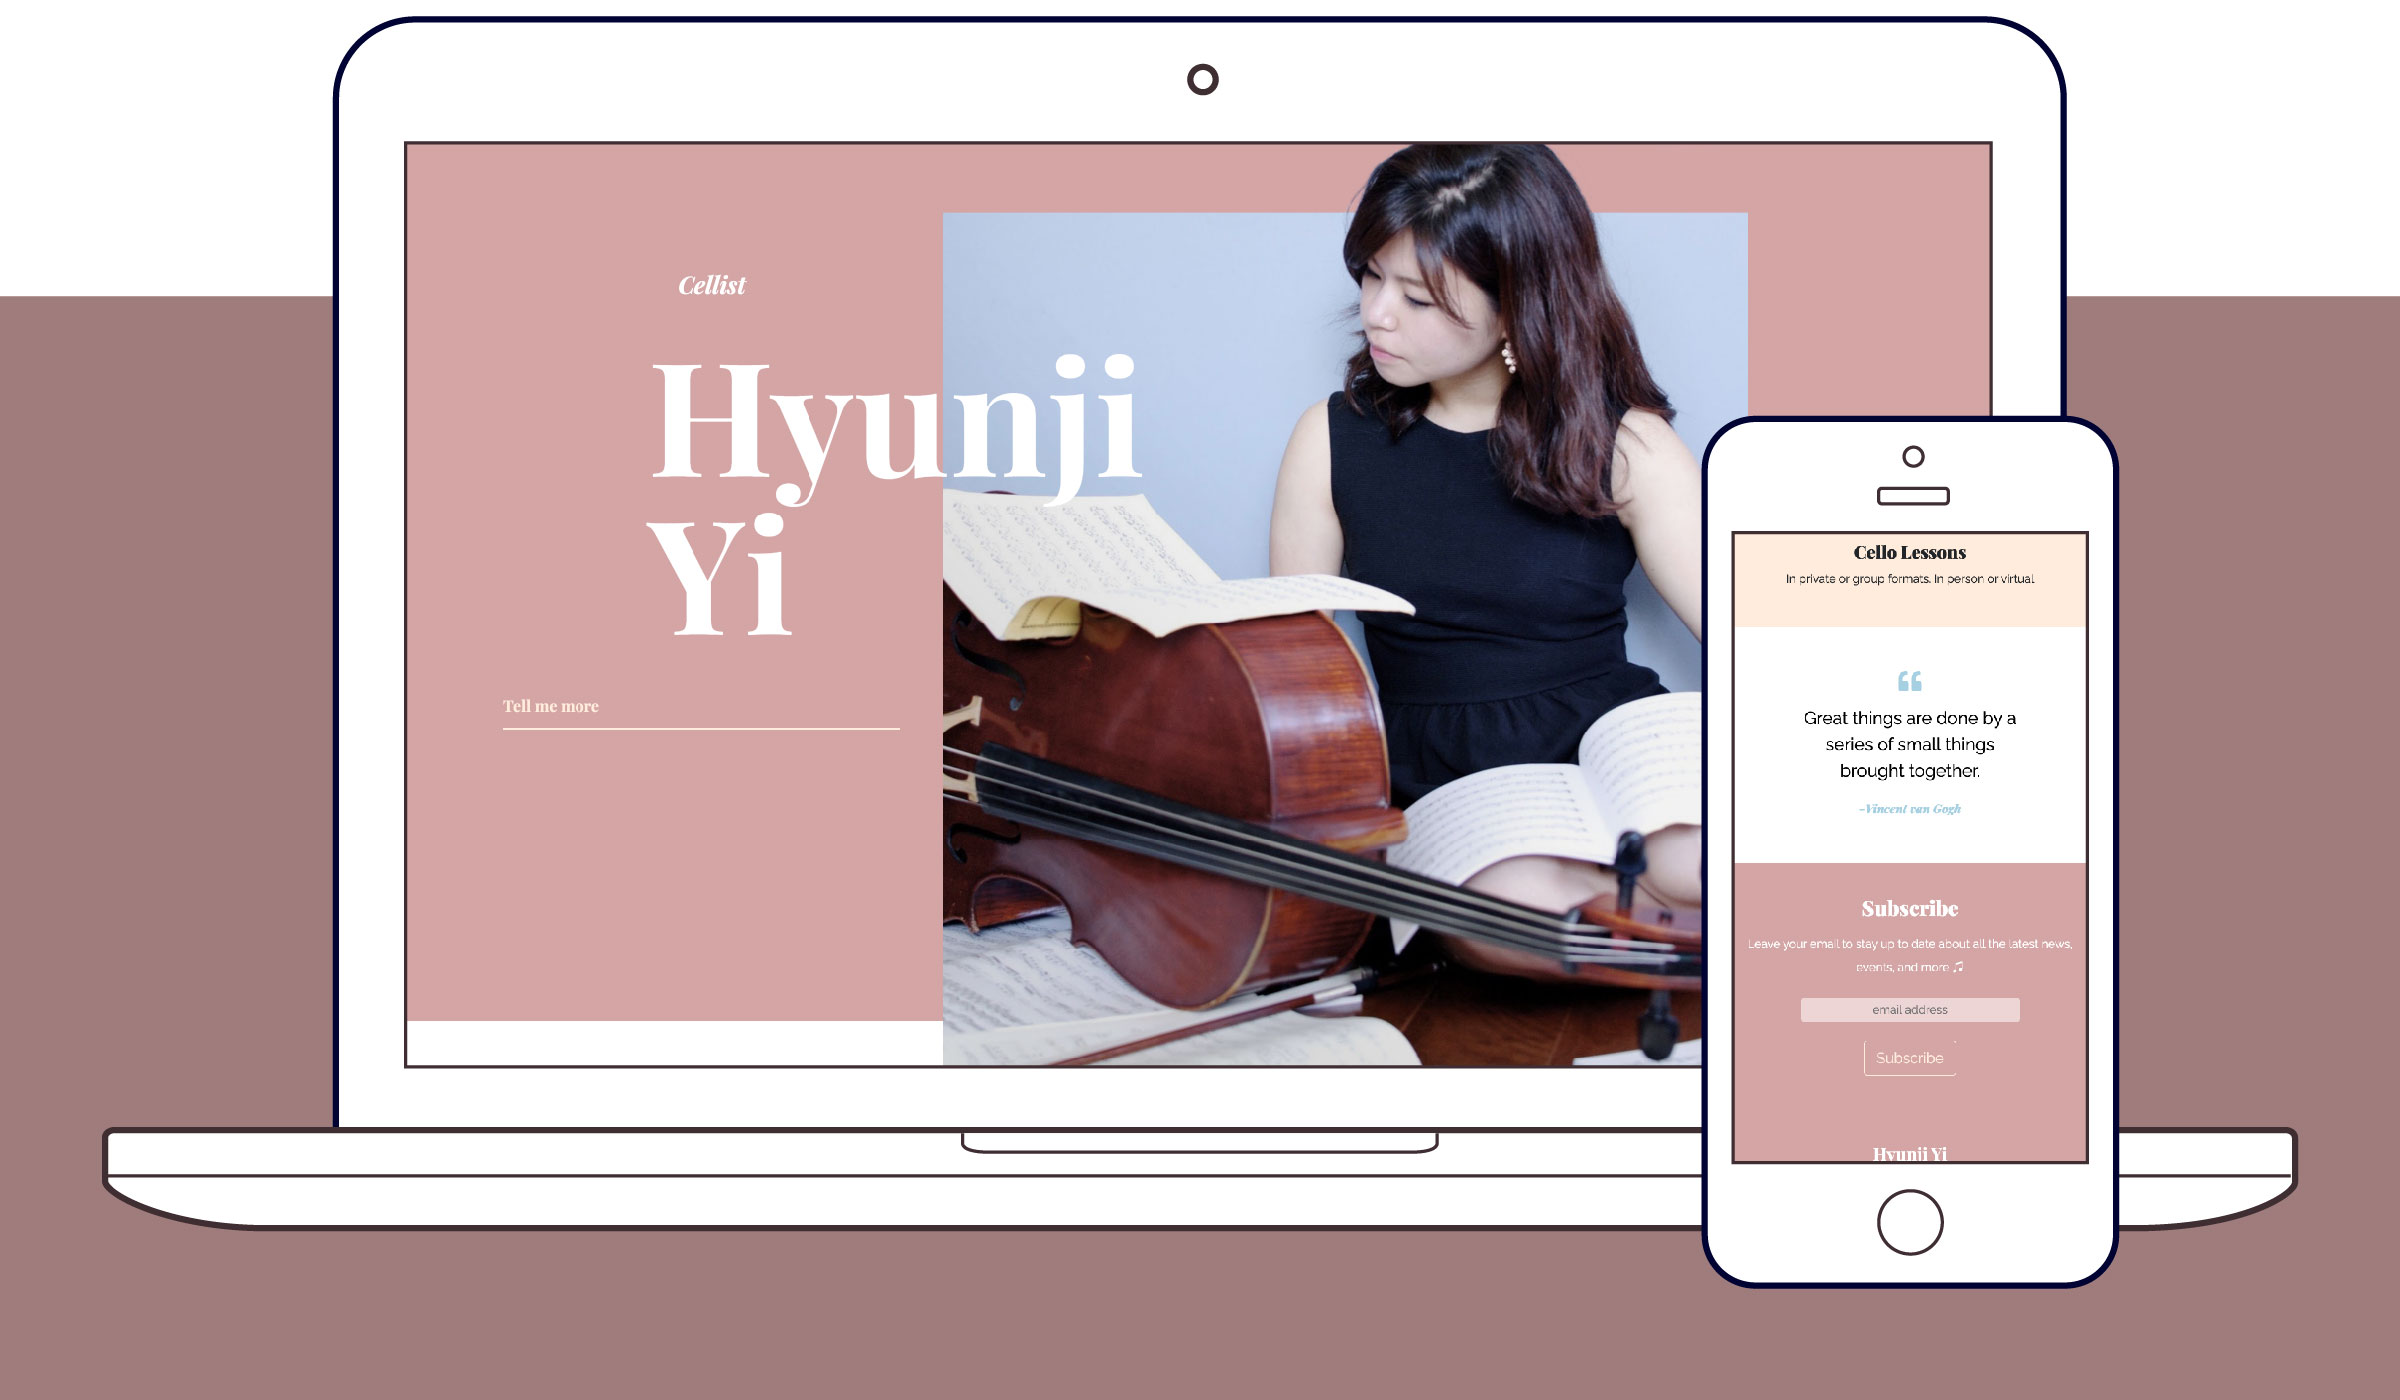
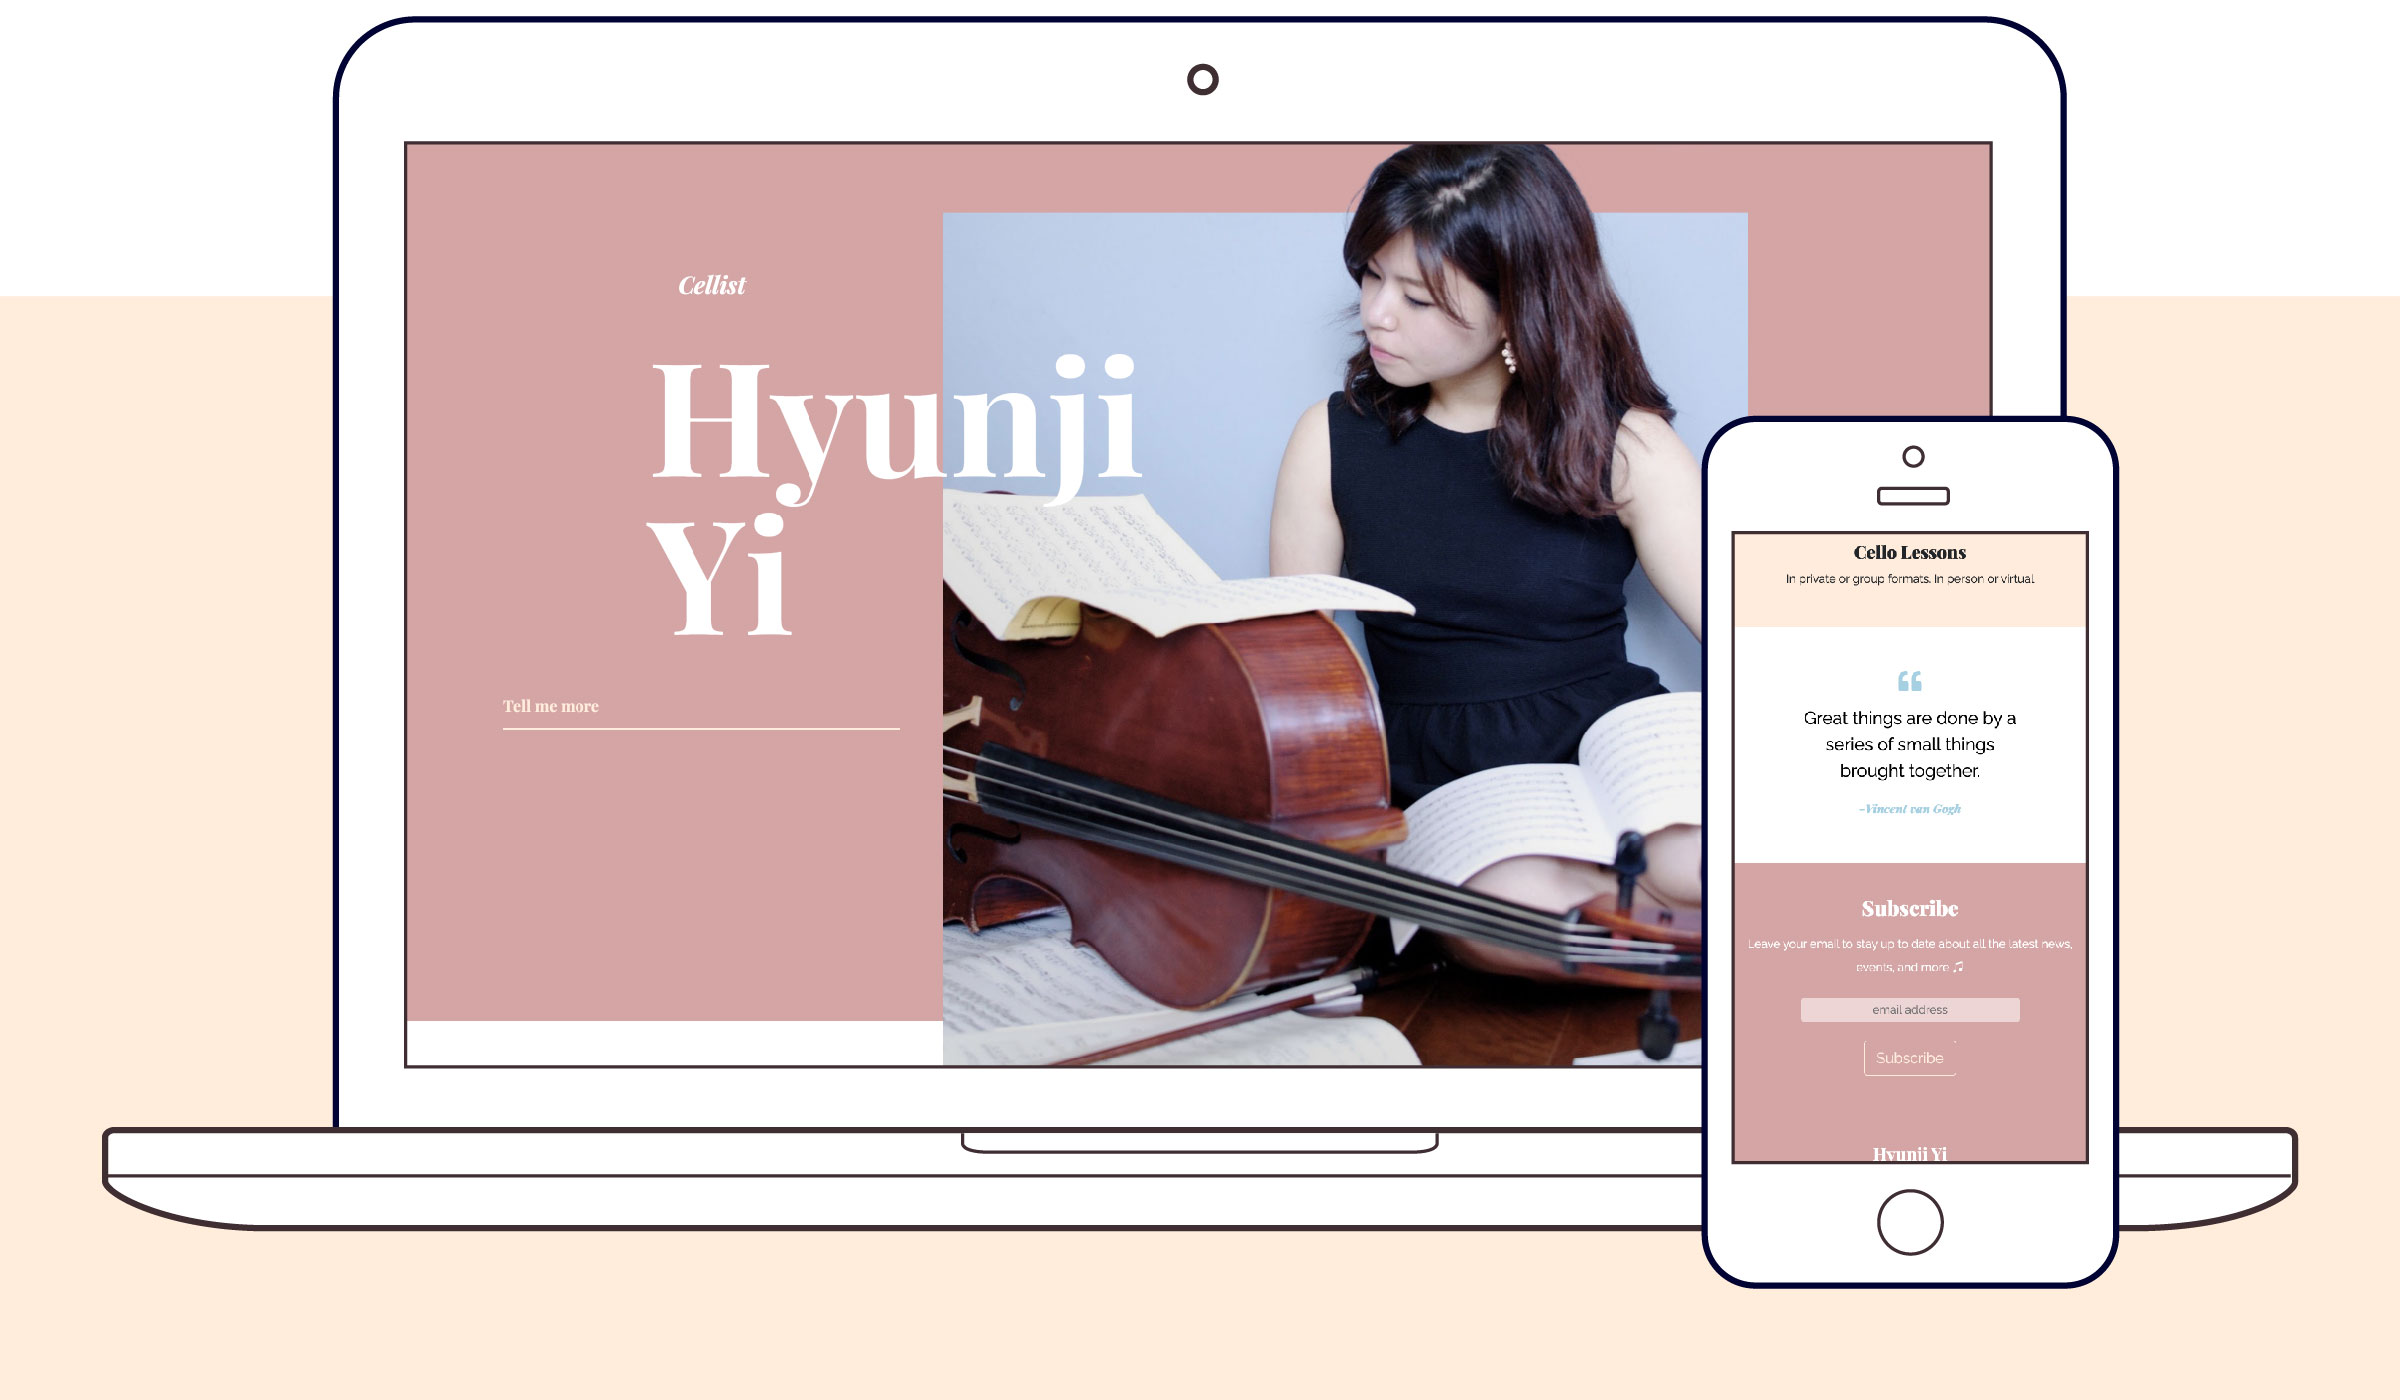
Updated project backgrounds and footer to top link

Changed region(s): [[0.0, 0.1843, 1.0, 1.0]]

diff --git a/tommylee/projects-data.php b/tommylee/projects-data.php
@@ -11,15 +11,6 @@
 			"img1" => "images/thovon-02.jpg",
 			"img2" => "images/thovon-03.jpg",
 		],[
-			"key" => "fortia",
-			"title" => "Fortia Homme",
-			"intro" => "Ecommerce store built with Shopify. Fortia targets the young male audience to offer fresh and trendy jewelry. An elegant low key green and gray were chosen to denote masculinity.",
-			"par1" => "The collection images features elements from nature, metaphorically connecting the strength of nature to each collection's items. For the landing section, since the goal was to communicate as many ongoing promotions as possible, I chose a split hero section.",
-			"par2" => "To enhance the detail view of each item, I preferred to go with a one image column for the mobile view. A group of three items were created with Photoshop to make it visually engaging. I also created custom color swatches to replace the default ones since these were not matching with the overall look of the store.",
-			"logo" => "images/fortia-01.jpg",
-			"img1" => "images/fortia-02.jpg",
-			"img2" => "images/fortia-03.jpg",
-		],[
 			"key" => "trendy",
 			"title" => "Trendy Apparel&nbsp;Shop",
 			"intro" => "The client was in need of an interface lift for their store website. I worked on the entire home page creating a new visual theme, landing images, sections and collection groups.",
@@ -29,6 +20,15 @@
 			"img1" => "images/trendy-02.jpg",
 			"img2" => "images/trendy-03.jpg",
 		],[
+			"key" => "fortia",
+			"title" => "Fortia Homme",
+			"intro" => "Ecommerce store built with Shopify. Fortia targets the young male audience to offer fresh and trendy jewelry. An elegant low key green and gray were chosen to denote masculinity.",
+			"par1" => "The collection images features elements from nature, metaphorically connecting the strength of nature to each collection's items. For the landing section, since the goal was to communicate as many ongoing promotions as possible, I chose a split hero section.",
+			"par2" => "To enhance the detail view of each item, I preferred to go with a one image column for the mobile view. A group of three items were created with Photoshop to make it visually engaging. I also created custom color swatches to replace the default ones since these were not matching with the overall look of the store.",
+			"logo" => "images/fortia-01.jpg",
+			"img1" => "images/fortia-02.jpg",
+			"img2" => "images/fortia-03.jpg",
+		],[
 			"key" => "hyunji",
 			"title" => "Musician H. Yi",
 			"intro" => "The client was in need of a personal website to present the scope of work she offers. It was important for the website to represent her individual taste. For example, we worked together to choose the right fonts, color theme and visual layout. Built with HTML, CSS, Bootstrap.",
@@ -36,7 +36,7 @@
 		],[
 			"key"=> "pe-coffee",
 			"title" => "Store Front Development",
-			"intro" => "Personal project involving fully responsive layouts and custom theming. A button toggles between a car brand website and a coffee store website. Built with HTML, CSS and JS.",
+			"intro" => "Personal project involving fully responsive layouts and custom theming. A button toggles between a light and a dark theme. Built with HTML, CSS and JS.",
 			"logo" => "images/pe-coffee-01.jpg",
 		],[
 			"key"=> "pe-monsters",

diff --git a/tommylee/site-footer.php b/tommylee/site-footer.php
@@ -6,7 +6,7 @@
 				</picture>
 			</div>			
 			<div>
-				<a href="#home" class="invite-voice">Back to top ▲</a>
+				<a href="#top" class="invite-voice">Back to top ▲</a>
 				<br>
 				<p class="calm-voice">© 2021 Thomas Lee</p>
 			</div>

diff --git a/tommylee/index.php b/tommylee/index.php
@@ -30,7 +30,7 @@
 			include('index-header.php');
 		}
 	?>
-
+	<div id="top"></div>
 	<?php include('site-header.php')?>
 
 	<main>
